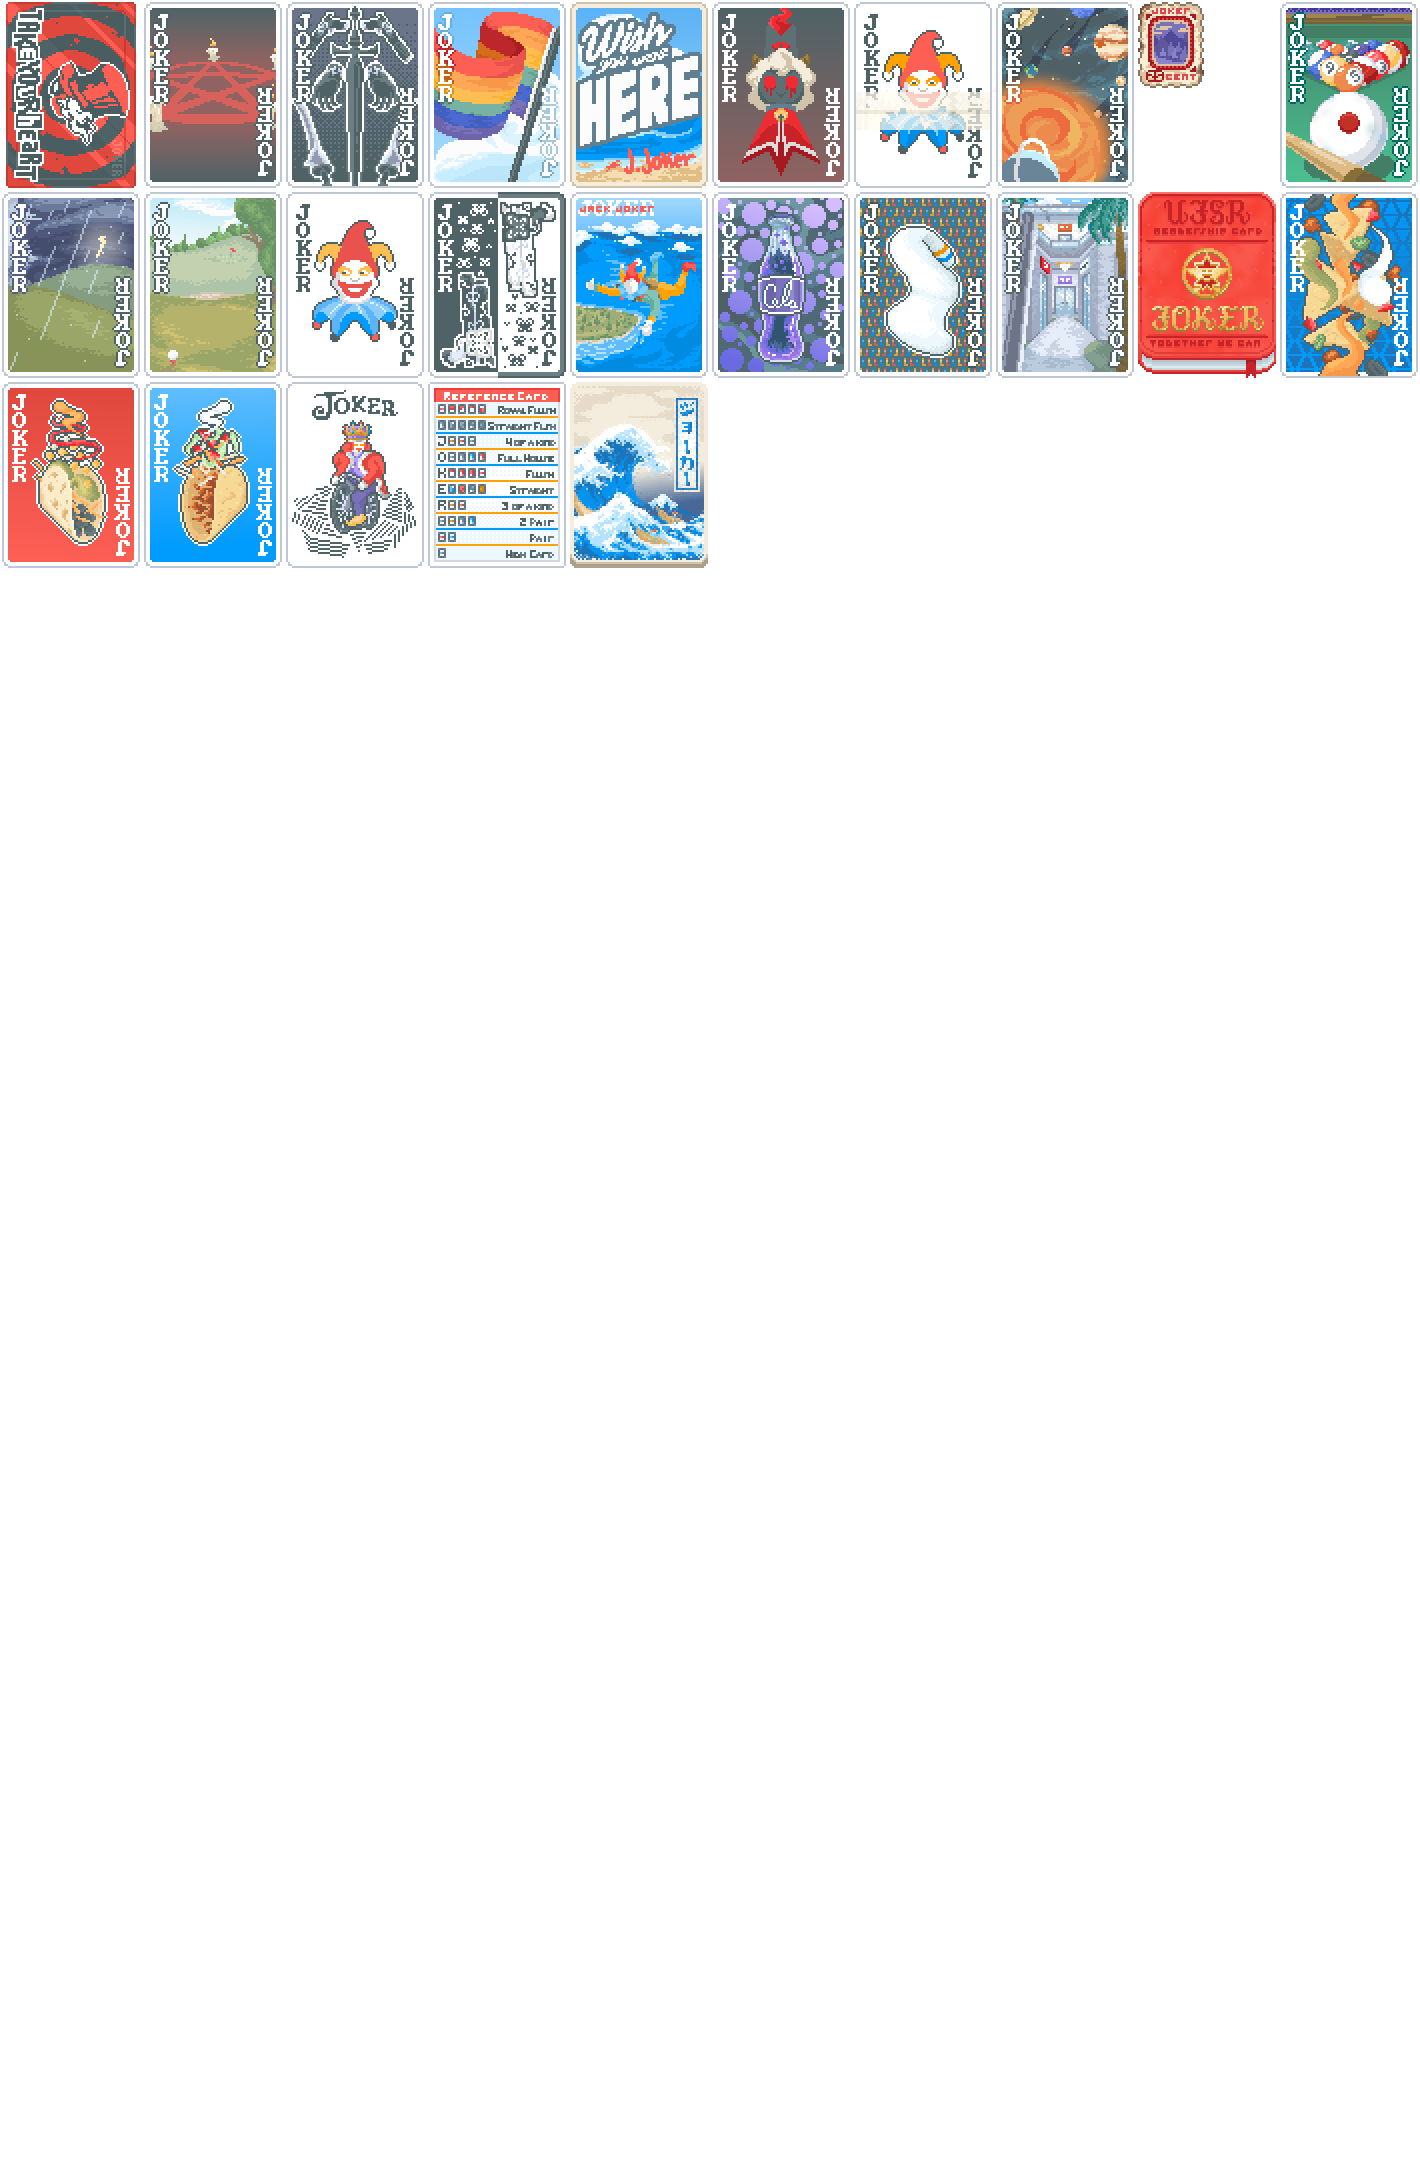
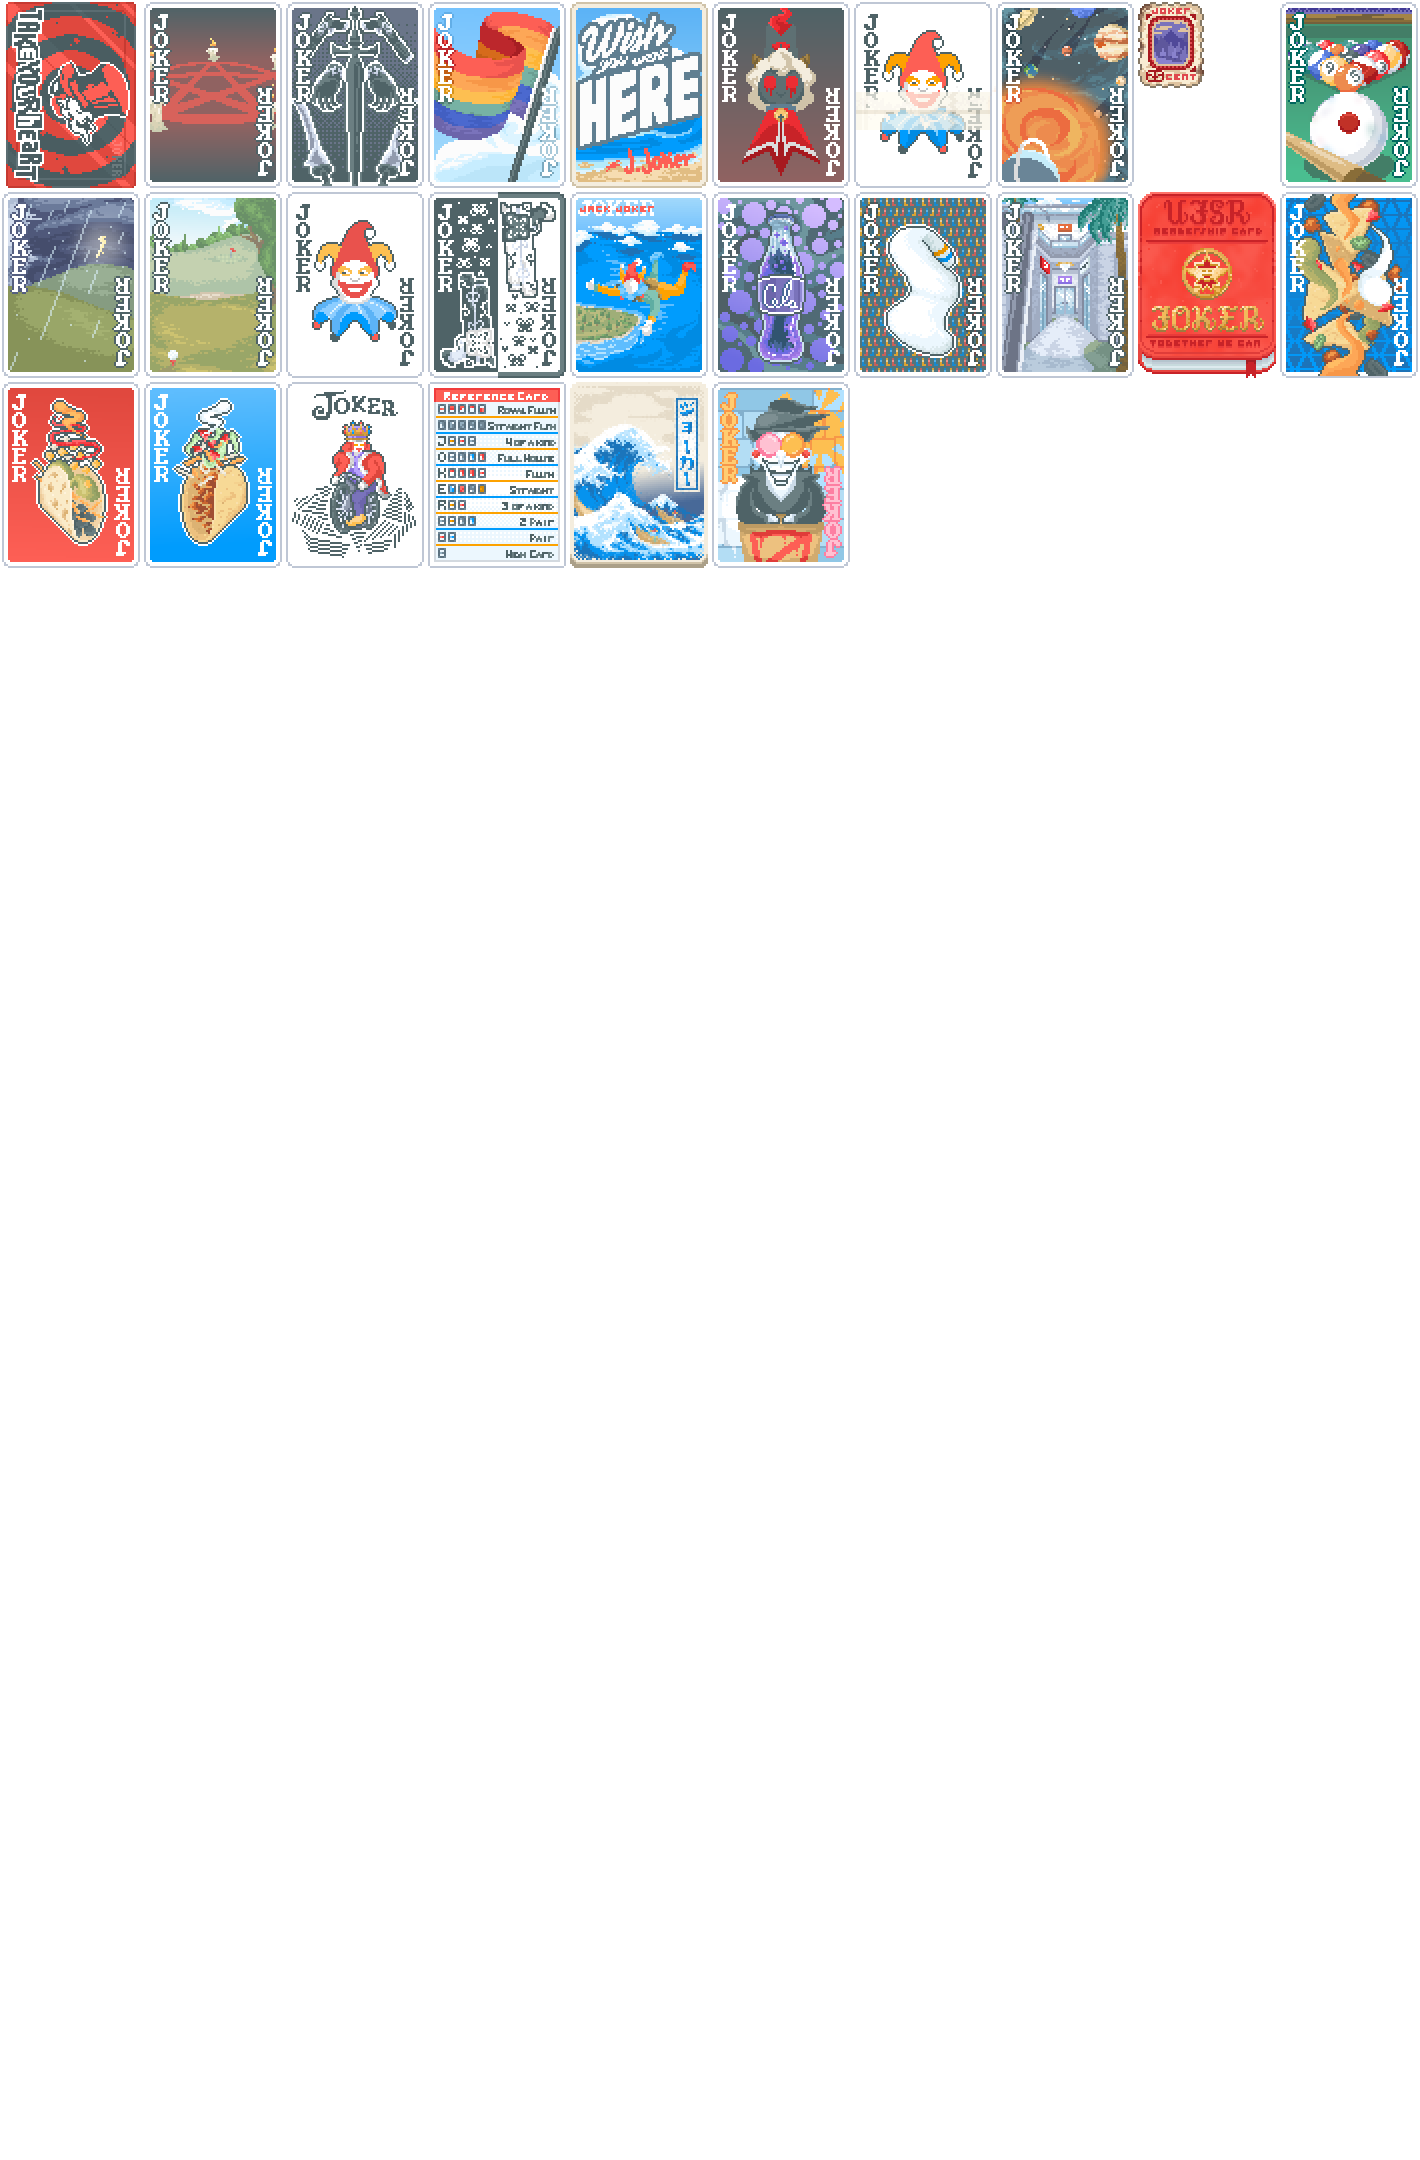
Implement [[WILD PRIZE!1!]]

Changed region(s): [[0.4958, 0.1551, 0.6197, 0.2792]]

diff --git a/docs/addjokers.js b/docs/addjokers.js
@@ -184,7 +184,15 @@ let implementedJokers = [
     ],
     image_url: "img/j_great_wave.png",
     rarity: "Rare"
-  }
+  },
+  {
+    name: "[[WILD PRIZE!1!]]",
+    text: [
+      "Retrigger all {C:attention}Aces{}, {C:attention}9s{}, and {C:attention}7s{}. Each of these earn {C:money}$1{} when scored"
+    ],
+    image_url: "img/j_wild_prize.png",
+    rarity: "Uncommon"
+  },
 ]
 
 let inProgressJokers = [
@@ -325,14 +333,6 @@ let conceptJokers = [
     name: "Everything Must Go!",
     text: [
       "Shops have an additional Voucher for sale"
-    ],
-    image_url: "img/j_joker.png",
-    rarity: "Uncommon"
-  },
-  {
-    name: "[[WILD PRIZE!1!]]",
-    text: [
-      "Retrigger all Aces, Nines, and Sevens. Each of these earn $1 when scored"
     ],
     image_url: "img/j_joker.png",
     rarity: "Uncommon"
